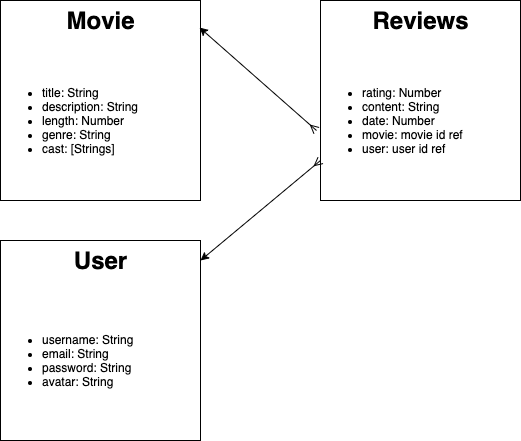
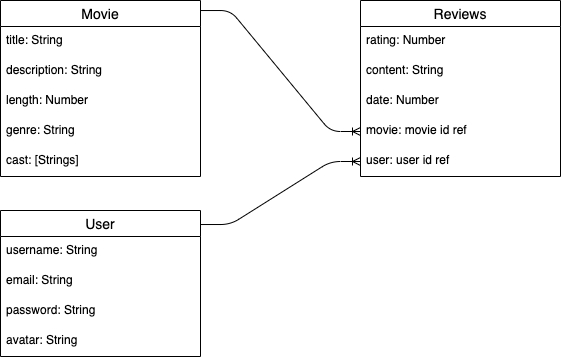
edits readme with scope and adds wireframes

diff --git a/README.md b/README.md
@@ -1,13 +1,45 @@
 # Project-1---Reverse-Engineer
-
 # Title: Bad Apple
+by Jenna Waffensmith & Dan Bae
+
+# Scope
+Our objective is to reverse engineer a web app similar to Rotten Tomatoes. The user will be able to browse through our site to see information about a certain movie and what other people thought about it with reviews. If the user should wish, they will have the opportunity to register and login to our app to join the community and submit their own review as well. The features of our site will be:
+
+1. an index page where all the movie cards will be held so the user can navigate to a specific title
+2. a show page that will show the title that the user chose with information about the movie and where the reviews will be
+3. within the show page, the user will be able to submit their own review for contribution and be able to edit and delete their review as well
+
+Where we think we could possibly elevate our app is that to make our site more visually aesthetic. With javaScript and CSS we will give the user a more interactive way to view information about a movie title. On our index route, we will be showing cards of movie posters so the user can navigate through and when the user toggles the card, it will flip over to show the information about the title and provide the link to take them to the show page. We feel that this will provide a cleaner app that is more visually appealing.
+
+# Wireframes
+Index route - desktop
+<img src="misc/index-desktop.png">
+Index route - mobile
+<img src="misc/index-mobile.png">
+Show route - desktop
+<img src="misc/show-desktop.png">
+Show route - mobile
+<img src="misc/show-mobile.png">
+Create/edit review - desktop
+<img src="misc/edit-desktop.png">
+Create/edit review - mobile
+<img src="misc/edit-mobile.png">
 
 # Color Palette
-Logo: #E34234
-Nav/Footer: #F2F1E8
-Card Background/ Review: #F2F1E8
-Background: #0D698B
-Text: #050533
+* Logo: #E34234 - Cinnabar
+* Nav/Footer: #F2F1E8 - Ivory
+* Card Background/ Review: #F2F1E8 - Ivory
+* Background: #0D698B - Blue Grotto
+* Text: #050533 - Dark Blue
+
+# REST/CRUD
+
+<img src="misc/index-rest.png">
+<img src="misc/show-rest.png">
+
+# ERD
+
+<img src="misc/erd.png">
 
 # Technology Packages:
 1. npm
@@ -22,20 +54,3 @@ Text: #050533
 10. bcrypt (stretch)
 11. session (stretch)
 12. connect-mongo (stretch)
-
-# Wireframes
-<img src="misc/index-mobile.png">
-<img src="misc/index-desktop.png">
-<img src="misc/show-mobile.png">
-<img src="misc/show-desktop.png">
-<img src="misc/edit-mobile.png">
-<img src="misc/edit-desktop.png">
-
-# REST/CRUD
-
-<img src="misc/index-rest.png">
-<img src="misc/show-rest.png">
-
-# ERD
-
-<img src="misc/erd.png">
